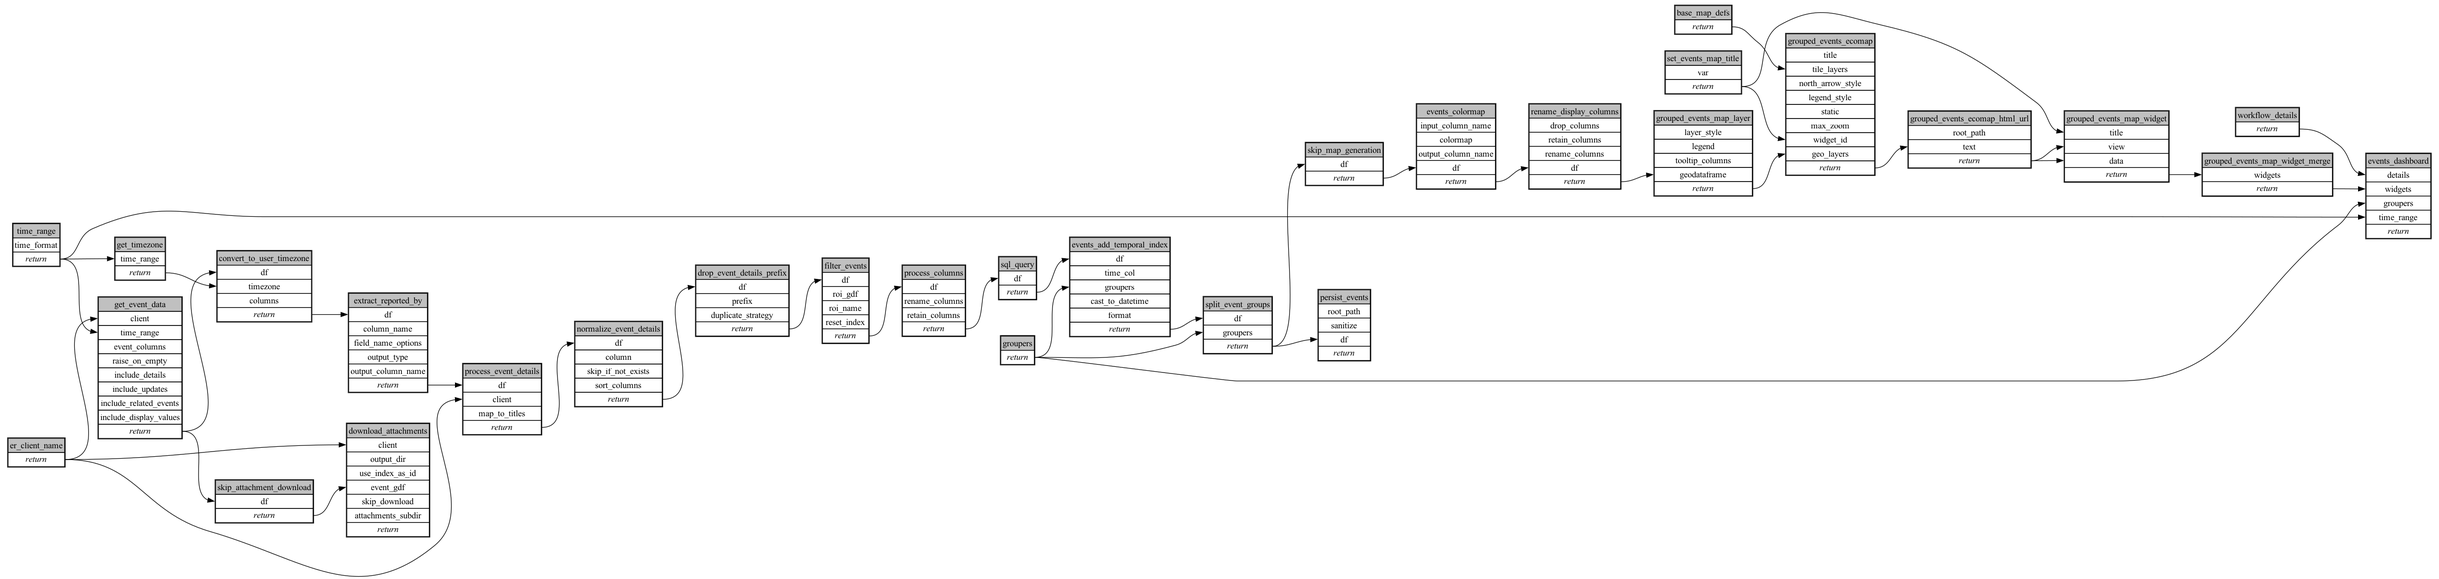
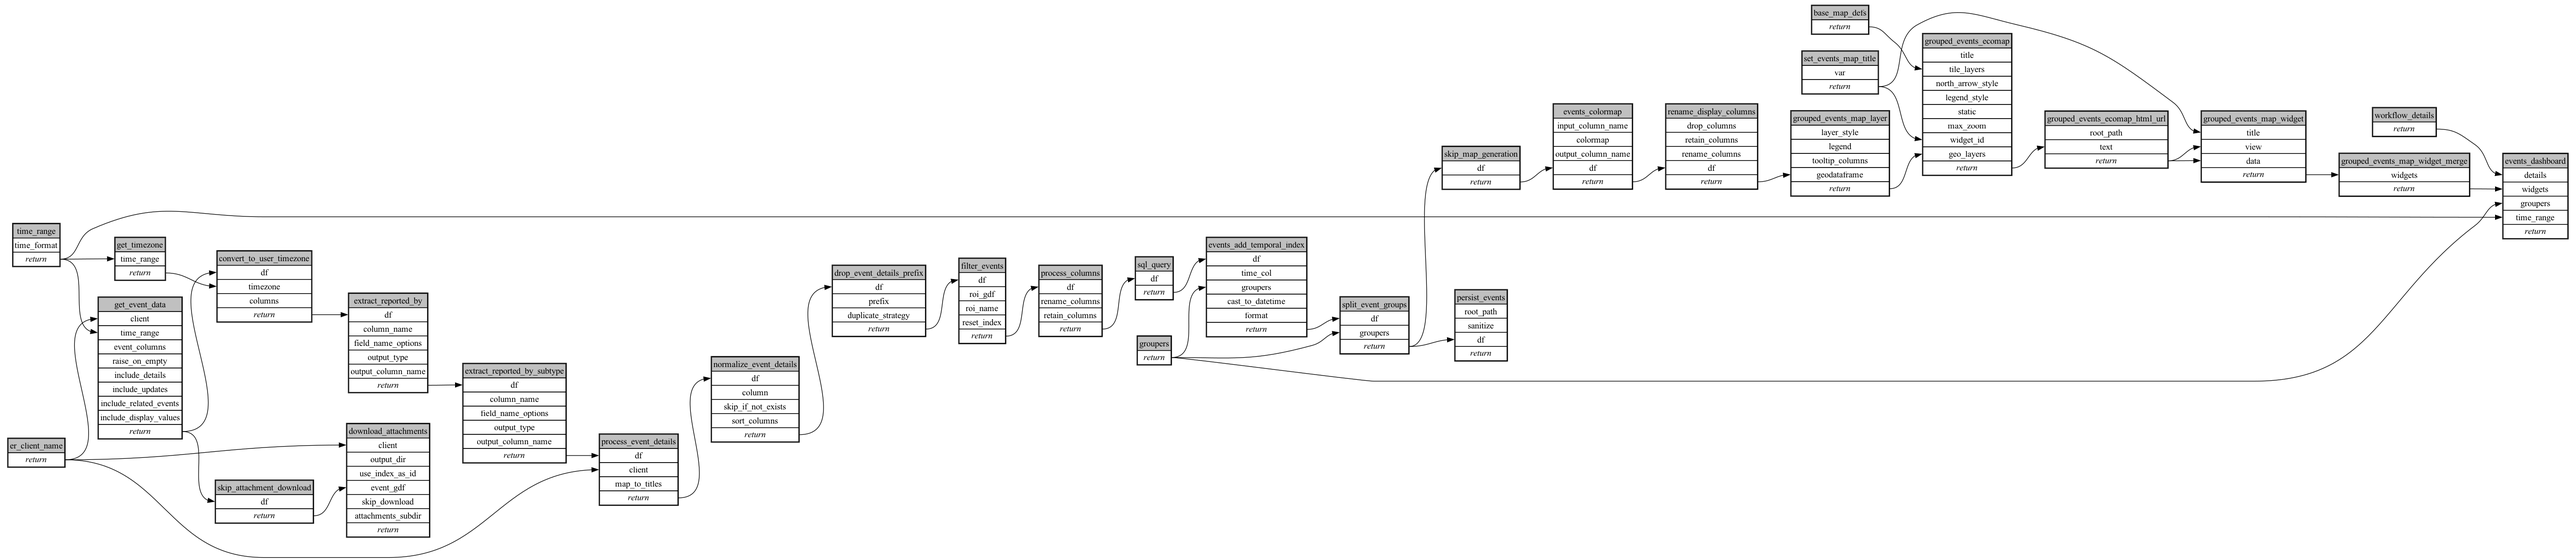
extract subtype

Changed region(s): [[0.0, 0.0, 1.0, 0.9639], [0.0938, 0.995, 0.1562, 1.0]]

diff --git a/ecoscope-workflows-download-events-workflow/ecoscope_workflows_download_events_workflow/dags/run_async_mock_io.py b/ecoscope-workflows-download-events-workflow/ecoscope_workflows_download_events_workflow/dags/run_async_mock_io.py
@@ -106,7 +106,8 @@ def main(params: Params):
         "download_attachments": ["er_client_name", "skip_attachment_download"],
         "convert_to_user_timezone": ["get_event_data", "get_timezone"],
         "extract_reported_by": ["convert_to_user_timezone"],
-        "process_event_details": ["extract_reported_by", "er_client_name"],
+        "extract_reported_by_subtype": ["extract_reported_by"],
+        "process_event_details": ["extract_reported_by_subtype", "er_client_name"],
         "normalize_event_details": ["process_event_details"],
         "drop_event_details_prefix": ["normalize_event_details"],
         "filter_events": ["drop_event_details_prefix"],
@@ -328,6 +329,31 @@ def main(params: Params):
             | (params_dict.get("extract_reported_by") or {}),
             method="call",
         ),
+        "extract_reported_by_subtype": Node(
+            async_task=extract_value_from_json_column.validate()
+            .set_task_instance_id("extract_reported_by_subtype")
+            .handle_errors()
+            .with_tracing()
+            .skipif(
+                conditions=[
+                    any_is_empty_df,
+                    any_dependency_skipped,
+                ],
+                unpack_depth=1,
+            )
+            .set_executor("lithops"),
+            partial={
+                "df": DependsOn("extract_reported_by"),
+                "column_name": "reported_by",
+                "field_name_options": [
+                    "subject_subtype",
+                ],
+                "output_type": "str",
+                "output_column_name": "reported_by_subtype",
+            }
+            | (params_dict.get("extract_reported_by_subtype") or {}),
+            method="call",
+        ),
         "process_event_details": Node(
             async_task=process_events_details.validate()
             .set_task_instance_id("process_event_details")
@@ -342,7 +368,7 @@ def main(params: Params):
             )
             .set_executor("lithops"),
             partial={
-                "df": DependsOn("extract_reported_by"),
+                "df": DependsOn("extract_reported_by_subtype"),
                 "client": DependsOn("er_client_name"),
                 "map_to_titles": True,
             }

diff --git a/ecoscope-workflows-download-events-workflow/ecoscope_workflows_download_events_workflow/dags/run_async.py b/ecoscope-workflows-download-events-workflow/ecoscope_workflows_download_events_workflow/dags/run_async.py
@@ -88,7 +88,8 @@ def main(params: Params):
         "download_attachments": ["er_client_name", "skip_attachment_download"],
         "convert_to_user_timezone": ["get_event_data", "get_timezone"],
         "extract_reported_by": ["convert_to_user_timezone"],
-        "process_event_details": ["extract_reported_by", "er_client_name"],
+        "extract_reported_by_subtype": ["extract_reported_by"],
+        "process_event_details": ["extract_reported_by_subtype", "er_client_name"],
         "normalize_event_details": ["process_event_details"],
         "drop_event_details_prefix": ["normalize_event_details"],
         "filter_events": ["drop_event_details_prefix"],
@@ -310,6 +311,31 @@ def main(params: Params):
             | (params_dict.get("extract_reported_by") or {}),
             method="call",
         ),
+        "extract_reported_by_subtype": Node(
+            async_task=extract_value_from_json_column.validate()
+            .set_task_instance_id("extract_reported_by_subtype")
+            .handle_errors()
+            .with_tracing()
+            .skipif(
+                conditions=[
+                    any_is_empty_df,
+                    any_dependency_skipped,
+                ],
+                unpack_depth=1,
+            )
+            .set_executor("lithops"),
+            partial={
+                "df": DependsOn("extract_reported_by"),
+                "column_name": "reported_by",
+                "field_name_options": [
+                    "subject_subtype",
+                ],
+                "output_type": "str",
+                "output_column_name": "reported_by_subtype",
+            }
+            | (params_dict.get("extract_reported_by_subtype") or {}),
+            method="call",
+        ),
         "process_event_details": Node(
             async_task=process_events_details.validate()
             .set_task_instance_id("process_event_details")
@@ -324,7 +350,7 @@ def main(params: Params):
             )
             .set_executor("lithops"),
             partial={
-                "df": DependsOn("extract_reported_by"),
+                "df": DependsOn("extract_reported_by_subtype"),
                 "client": DependsOn("er_client_name"),
                 "map_to_titles": True,
             }

diff --git a/ecoscope-workflows-download-events-workflow/ecoscope_workflows_download_events_workflow/dispatch.py b/ecoscope-workflows-download-events-workflow/ecoscope_workflows_download_events_workflow/dispatch.py
@@ -1,18 +1,23 @@
 # AUTOGENERATED BY ECOSCOPE-WORKFLOWS; see fingerprint in README.md for details
 
 
+import os
+import sys
 import traceback
 
 from pydantic import BaseModel
 
-from .dags import (
-    run_async,
-    run_async_mock_io,
-    run_sequential,
-    run_sequential_mock_io,
-)
 from .params import Params
 from .response import ResponseModel
+
+
+def to_windows_safe_path(path: str):
+    """
+    Convert path to Windows extended-length format.
+    Prevents module import failures in deeply nested folder structures
+    """
+    abs_path = os.path.abspath(path)
+    return f"\\\\?\\{abs_path}"
 
 
 def dispatch(
@@ -20,14 +25,24 @@ def dispatch(
     mock_io: bool,
     params: Params,
 ) -> ResponseModel:
+    if sys.platform == "win32":
+        sys.path = [to_windows_safe_path(p) for p in sys.path]
     match execution_mode, mock_io:
         case ("async", True):
+            from .dags import run_async_mock_io
+
             dispatcher = run_async_mock_io
         case ("async", False):
+            from .dags import run_async
+
             dispatcher = run_async
         case ("sequential", True):
+            from .dags import run_sequential_mock_io
+
             dispatcher = run_sequential_mock_io
         case ("sequential", False):
+            from .dags import run_sequential
+
             dispatcher = run_sequential
         case _:
             raise ValueError(f"Invalid execution mode: {execution_mode}")

diff --git a/ecoscope-workflows-download-events-workflow/ecoscope_workflows_download_events_workflow/dags/run_sequential.py b/ecoscope-workflows-download-events-workflow/ecoscope_workflows_download_events_workflow/dags/run_sequential.py
@@ -255,6 +255,29 @@ def main(params: Params):
         .call()
     )
 
+    extract_reported_by_subtype = (
+        extract_value_from_json_column.validate()
+        .set_task_instance_id("extract_reported_by_subtype")
+        .handle_errors()
+        .with_tracing()
+        .skipif(
+            conditions=[
+                any_is_empty_df,
+                any_dependency_skipped,
+            ],
+            unpack_depth=1,
+        )
+        .partial(
+            df=extract_reported_by,
+            column_name="reported_by",
+            field_name_options=["subject_subtype"],
+            output_type="str",
+            output_column_name="reported_by_subtype",
+            **(params_dict.get("extract_reported_by_subtype") or {}),
+        )
+        .call()
+    )
+
     process_event_details = (
         process_events_details.validate()
         .set_task_instance_id("process_event_details")
@@ -268,7 +291,7 @@ def main(params: Params):
             unpack_depth=1,
         )
         .partial(
-            df=extract_reported_by,
+            df=extract_reported_by_subtype,
             client=er_client_name,
             map_to_titles=True,
             **(params_dict.get("process_event_details") or {}),

diff --git a/ecoscope-workflows-download-events-workflow/ecoscope_workflows_download_events_workflow/dags/run_sequential_mock_io.py b/ecoscope-workflows-download-events-workflow/ecoscope_workflows_download_events_workflow/dags/run_sequential_mock_io.py
@@ -273,6 +273,29 @@ def main(params: Params):
         .call()
     )
 
+    extract_reported_by_subtype = (
+        extract_value_from_json_column.validate()
+        .set_task_instance_id("extract_reported_by_subtype")
+        .handle_errors()
+        .with_tracing()
+        .skipif(
+            conditions=[
+                any_is_empty_df,
+                any_dependency_skipped,
+            ],
+            unpack_depth=1,
+        )
+        .partial(
+            df=extract_reported_by,
+            column_name="reported_by",
+            field_name_options=["subject_subtype"],
+            output_type="str",
+            output_column_name="reported_by_subtype",
+            **(params_dict.get("extract_reported_by_subtype") or {}),
+        )
+        .call()
+    )
+
     process_event_details = (
         process_events_details.validate()
         .set_task_instance_id("process_event_details")
@@ -286,7 +309,7 @@ def main(params: Params):
             unpack_depth=1,
         )
         .partial(
-            df=extract_reported_by,
+            df=extract_reported_by_subtype,
             client=er_client_name,
             map_to_titles=True,
             **(params_dict.get("process_event_details") or {}),

diff --git a/ecoscope-workflows-download-events-workflow/ecoscope_workflows_download_events_workflow/formdata.py b/ecoscope-workflows-download-events-workflow/ecoscope_workflows_download_events_workflow/formdata.py
@@ -324,6 +324,10 @@ class Coordinate(BaseModel):
     x: float = Field(..., description="Example 37.30906", title="Longitude")
 
 
+class SpatialGrouper(RootModel[str]):
+    root: str = Field(..., title="Spatial Regions")
+
+
 class TemporalGrouper(RootModel[str]):
     root: str = Field(..., title="Time")
 
@@ -376,10 +380,12 @@ class Groupers(BaseModel):
     model_config = ConfigDict(
         extra="forbid",
     )
-    groupers: Optional[List[Union[ValueGrouper, TemporalGrouper]]] = Field(
-        None,
-        description="            Specify how the data should be grouped to create the views for your dashboard.\n            This field is optional; if left blank, all the data will appear in a single view.\n            ",
-        title=" ",
+    groupers: Optional[List[Union[ValueGrouper, TemporalGrouper, SpatialGrouper]]] = (
+        Field(
+            None,
+            description="            Specify how the data should be grouped to create the views for your dashboard.\n            This field is optional; if left blank, all the data will appear in a single view.\n            ",
+            title=" ",
+        )
     )
 
 

diff --git a/ecoscope-workflows-download-events-workflow/ecoscope_workflows_download_events_workflow/params.py b/ecoscope-workflows-download-events-workflow/ecoscope_workflows_download_events_workflow/params.py
@@ -288,6 +288,10 @@ class Coordinate(BaseModel):
     x: float = Field(..., description="Example 37.30906", title="Longitude")
 
 
+class SpatialGrouper(RootModel[str]):
+    root: str = Field(..., title="Spatial Regions")
+
+
 class TemporalGrouper(RootModel[str]):
     root: str = Field(..., title="Time")
 
@@ -336,10 +340,12 @@ class Groupers(BaseModel):
     model_config = ConfigDict(
         extra="forbid",
     )
-    groupers: Optional[List[Union[ValueGrouper, TemporalGrouper]]] = Field(
-        None,
-        description="            Specify how the data should be grouped to create the views for your dashboard.\n            This field is optional; if left blank, all the data will appear in a single view.\n            ",
-        title=" ",
+    groupers: Optional[List[Union[ValueGrouper, TemporalGrouper, SpatialGrouper]]] = (
+        Field(
+            None,
+            description="            Specify how the data should be grouped to create the views for your dashboard.\n            This field is optional; if left blank, all the data will appear in a single view.\n            ",
+            title=" ",
+        )
     )
 
 

diff --git a/ecoscope-workflows-download-events-workflow/ecoscope_workflows_download_events_workflow/dags/jupytext.py b/ecoscope-workflows-download-events-workflow/ecoscope_workflows_download_events_workflow/dags/jupytext.py
@@ -379,6 +379,41 @@ extract_reported_by = (
 
 
 # %% [markdown]
+# ## Extract reported_by_subtype from Events
+
+# %%
+# parameters
+
+extract_reported_by_subtype_params = dict()
+
+# %%
+# call the task
+
+
+extract_reported_by_subtype = (
+    extract_value_from_json_column.set_task_instance_id("extract_reported_by_subtype")
+    .handle_errors()
+    .with_tracing()
+    .skipif(
+        conditions=[
+            any_is_empty_df,
+            any_dependency_skipped,
+        ],
+        unpack_depth=1,
+    )
+    .partial(
+        df=extract_reported_by,
+        column_name="reported_by",
+        field_name_options=["subject_subtype"],
+        output_type="str",
+        output_column_name="reported_by_subtype",
+        **extract_reported_by_subtype_params,
+    )
+    .call()
+)
+
+
+# %% [markdown]
 # ## Process Event Details
 
 # %%
@@ -402,7 +437,7 @@ process_event_details = (
         unpack_depth=1,
     )
     .partial(
-        df=extract_reported_by,
+        df=extract_reported_by_subtype,
         client=er_client_name,
         map_to_titles=True,
         **process_event_details_params,

diff --git a/ecoscope-workflows-download-events-workflow/README.md b/ecoscope-workflows-download-events-workflow/README.md
@@ -5,20 +5,20 @@
 
 ```yaml
 # fingerprint:
-artifacts_sha256_basic: 65b121c09b5e3e4e297aa73f35c86fb8cc69cb1b3ba321dcc128fe2fcb618883
-artifacts_sha256_strict: b810aeff2c584df2574f8990db5587e061c009add5d1d94538b5abf5a5951b7f
+artifacts_sha256_basic: baf4665ee2c5e6284691762752b51c02315604b737ca7dc4576367bb3860d6c9
+artifacts_sha256_strict: 4a7b6bcd11457ecb47f023ac7a70ab8acbe1ff44f563dee8979c116a81a9ec2f
 installed_requirements:
 - channel: https://repo.prefix.dev/ecoscope-workflows/
   name: ecoscope-workflows-core
   version: {version: ==0.21.0}
 - channel: https://repo.prefix.dev/ecoscope-workflows/
   name: ecoscope-workflows-ext-ecoscope
-  version: {version: ==0.21.0}
+  version: {version: ==0.22.2.dev14+g1afefb378.d20260210}
 - channel: https://repo.prefix.dev/ecoscope-workflows-custom/
   name: ecoscope-workflows-ext-custom
-  version: {version: ==0.0.19}
-params_sha256: 76eb1601fb43f7ffd93ef5c98d2d5d19a0f0d7926fd8f2020c030f3bc5c72483
-spec_sha256: 81e035f9a7b8bd09eb8a1d1ee9d5dca0915c6ba856162dbe2620402a36e0deb5
+  version: {version: ==0.0.24.dev12+g3666a7683.d20260209}
+params_sha256: 249e2e68009a0acc6c068ac069f7465448e4d72e86db9ed56c446f4c789d2bd4
+spec_sha256: 710bd283b6e9a6df09ceb303b52c34a85dc2bc6ff547b7e0738eae61bab132b2
 
 ```
 
